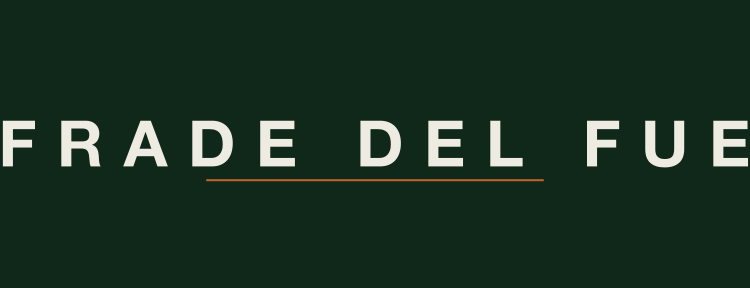
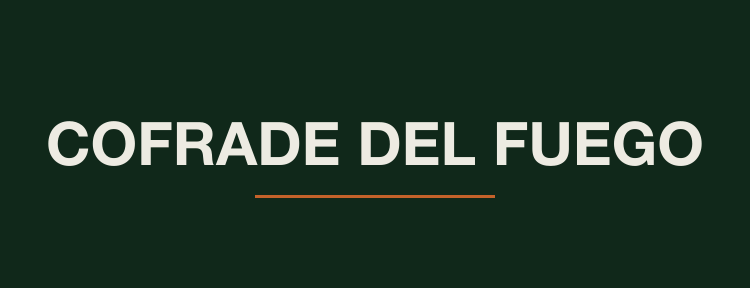
Refit tier strip placeholders so wordmark fits the Apple Wallet bounds
The first pass overran the 375x144 strip width because the SVG text
element was sized in absolute pixels regardless of wordmark length;
"COFRADE DEL FUEGO" and the trilingual Amigo greeting both clipped.

Switch to a length-adjusted SVG text (textLength + lengthAdjust) sized
proportionally to the strip height (~21% of h), and simplify the Amigo
wordmark to a single language to match the visual rhythm of the other
tiers. Restoring the trilingual greeting can happen in the Figma
production export.

Changed region(s): [[0.0, 0.4062, 1.0, 0.6875]]

diff --git a/scripts/gen-tier-strips.ts b/scripts/gen-tier-strips.ts
@@ -32,7 +32,11 @@ type TierSpec = {
 };
 
 const TIERS: TierSpec[] = [
-  { slug: "amigo", wordmark: "AMIGO  ·  FRIEND  ·  AMICO DE CHUÍ", trackingEm: 0.18 },
+  // Single-language wordmark for the placeholder. The Figma export for
+  // launch can restore the trilingual greeting "AMIGO · FRIEND · AMICO
+  // DE CHUÍ" if desired, with proper kerning and either two lines or a
+  // narrower font.
+  { slug: "amigo", wordmark: "AMIGO DE CHUÍ", trackingEm: 0.32 },
   { slug: "habitue", wordmark: "HABITUÉ DE CHUÍ", trackingEm: 0.32 },
   { slug: "cofrade", wordmark: "COFRADE DEL FUEGO", trackingEm: 0.32, embellishment: "ember-line" },
 ];
@@ -42,13 +46,17 @@ const GIFT: TierSpec = { slug: "gift", wordmark: "REGALO DE CHUÍ", trackingEm: 
 function buildStripSvg(spec: TierSpec, scale: 1 | 2 | 3): string {
   const w = 375 * scale;
   const h = 144 * scale;
-  // Font size scales: at 1x ~22px for amigo (tri-lingual longer), ~30px for short single-word marks.
-  const baseFontPx = spec.wordmark.length > 24 ? 22 : 32;
-  const fontSize = baseFontPx * scale;
-  const tracking = spec.trackingEm * fontSize;
+  // Reserve ~85% of strip width for the wordmark so the text never clips.
+  // We use SVG textLength to force the rendered string to fit that width
+  // regardless of character count, which gives a consistent visual rhythm
+  // across tiers without manual font tuning per wordmark length.
+  const targetTextW = w * 0.82;
+  // Pick a font size proportional to the strip height so vertical balance
+  // holds at any DPR.
+  const fontSize = Math.round(h * 0.21);
   const ember = spec.embellishment === "ember-line";
-  const lineY = h / 2 + fontSize * 0.55;
-  const lineW = Math.min(w * 0.45, 200 * scale);
+  const lineY = h / 2 + fontSize * 0.85;
+  const lineW = Math.min(w * 0.32, 160 * scale);
 
   return `<?xml version="1.0" encoding="UTF-8"?>
 <svg xmlns="http://www.w3.org/2000/svg" width="${w}" height="${h}" viewBox="0 0 ${w} ${h}">
@@ -58,8 +66,9 @@ function buildStripSvg(spec: TierSpec, scale: 1 | 2 | 3): string {
         font-family="Helvetica Neue, Helvetica, Arial, sans-serif"
         font-weight="700"
         font-size="${fontSize}"
-        letter-spacing="${tracking}">${spec.wordmark}</text>
-  ${ember ? `<rect x="${(w - lineW) / 2}" y="${lineY}" width="${lineW}" height="${Math.max(1, scale)}" fill="${EMBER}"/>` : ""}
+        textLength="${targetTextW}"
+        lengthAdjust="spacingAndGlyphs">${spec.wordmark}</text>
+  ${ember ? `<rect x="${(w - lineW) / 2}" y="${lineY}" width="${lineW}" height="${Math.max(2, scale * 1.5)}" fill="${EMBER}"/>` : ""}
 </svg>`;
 }
 
